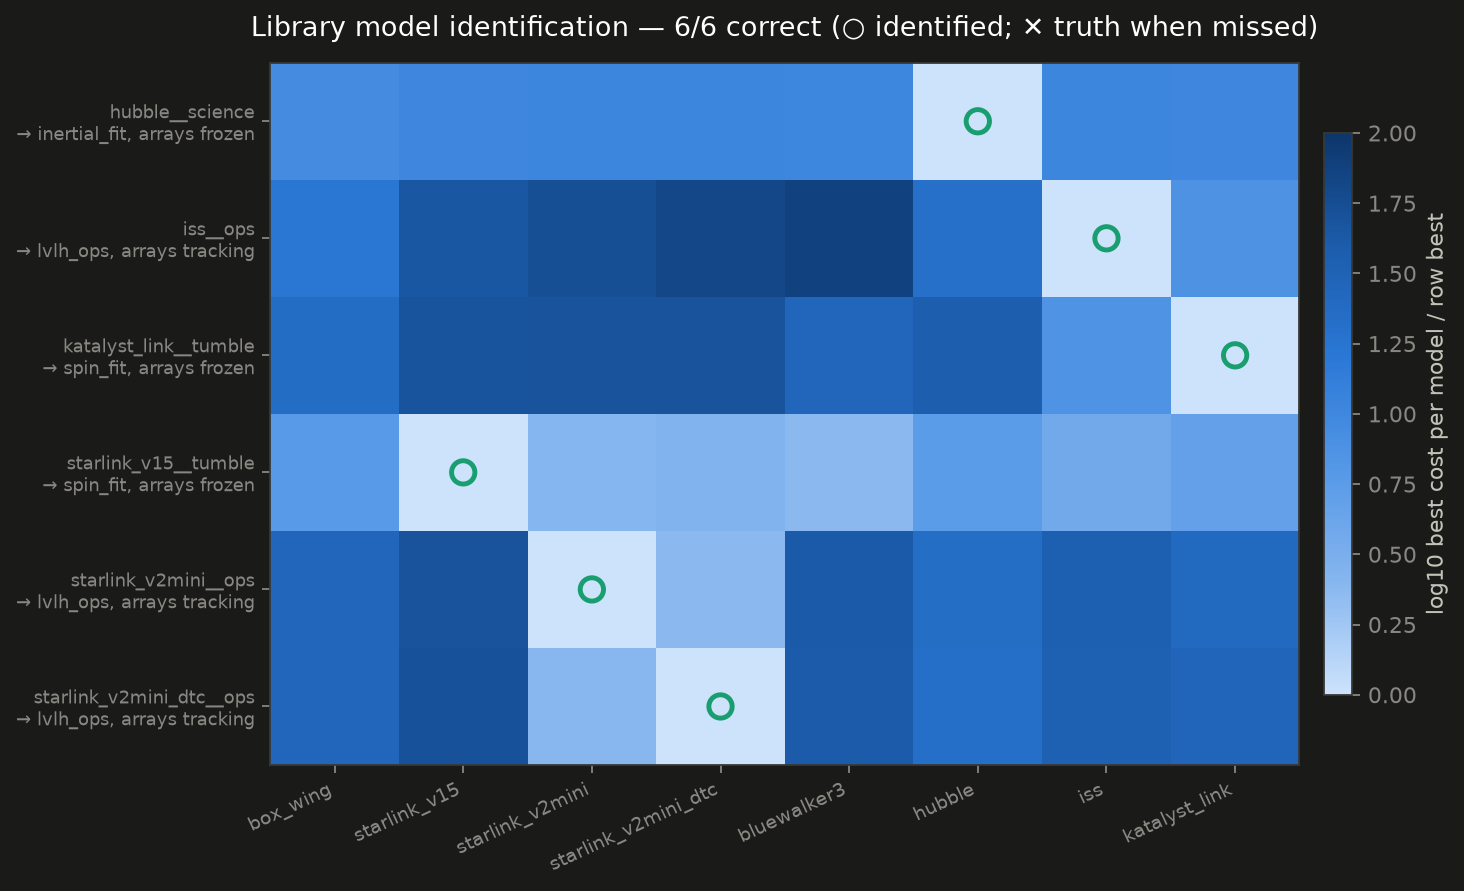
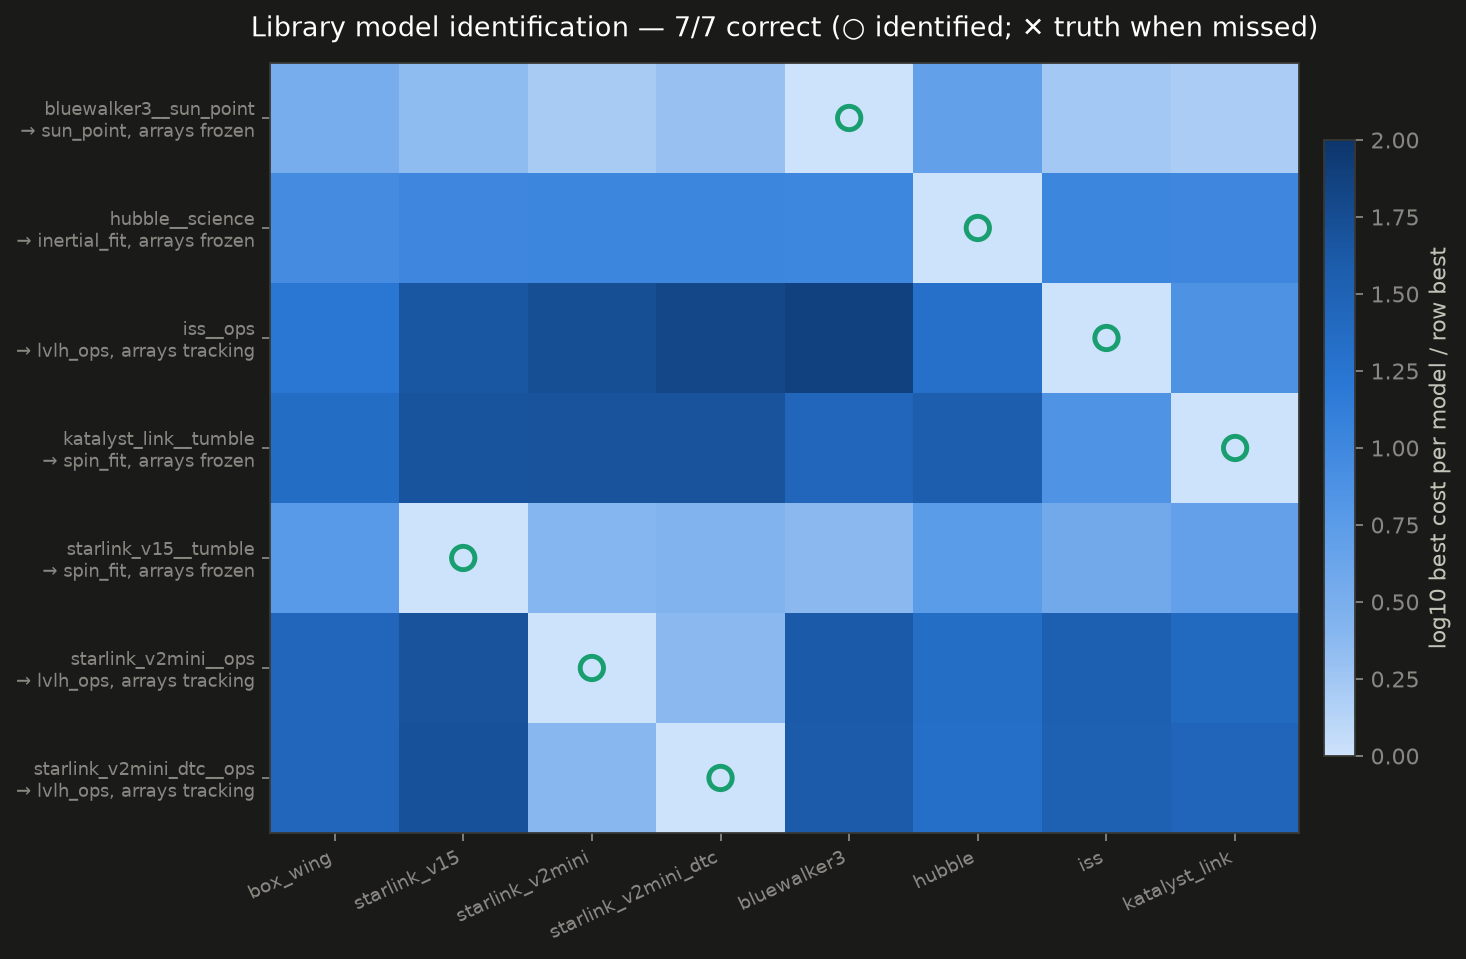
Add model-match README section, remaining match results, updated chart
Claude-Session: https://claude.ai/code/session_018HUFR9zZ7uRcLJ1h3DAMGJ

diff --git a/README.md b/README.md
@@ -74,9 +74,28 @@ total (`photometry/scenarios.py`, results in `results/fleet/`).
   bus-plus-wings geometry breaks the axis degeneracy that flat panel
   sats suffer); movie attitude error 0.1° against nav truth.
 - Per-scenario LVLH validation movies (truth shape at truth attitude vs
-  inverted EGI disks at estimated attitude, with projections onto the
+  the inverted product at estimated attitude, with projections onto the
   three LVLH planes) are in `results/movies/` — regenerate with
-  `python scripts/make_movies.py`.
+  `python scripts/make_movies.py`. The inverted product renders as two
+  layers: a Minkowski-reconstructed convex solid (face normals/areas
+  matched to the recovered EGI) and the raw EGI disks (oriented area,
+  exploded outward — photometry recovers no position information).
+
+## Library model identification
+
+`scripts/run_model_match.py` treats a scenario's observations as an
+unknown target and sweeps the full model library x attitude hypotheses x
+array configurations, scoring each with the photometric forward model.
+The photometric offset carries a 0.5-mag prior instead of being free, so
+absolute brightness (range is known) lets size discriminate between
+models. On seven representative scenarios: **7/7 correct
+model + attitude-mode + array-config identifications**, including
+separating Starlink v2 mini DTC from the plain v2 mini (the
+half-bus-length nadir antenna panel is photometrically detectable:
+best-fit cost 1.09 vs 2.64 for the non-DTC model) and identifying that
+ISS/v2-mini arrays were sun-tracking rather than frozen.
+
+![model match](results/charts/08_model_match.png)
 
 ![fleet modes](results/charts/06_fleet_modes.png)
 ![fleet EGI](results/charts/07_fleet_egi.png)
